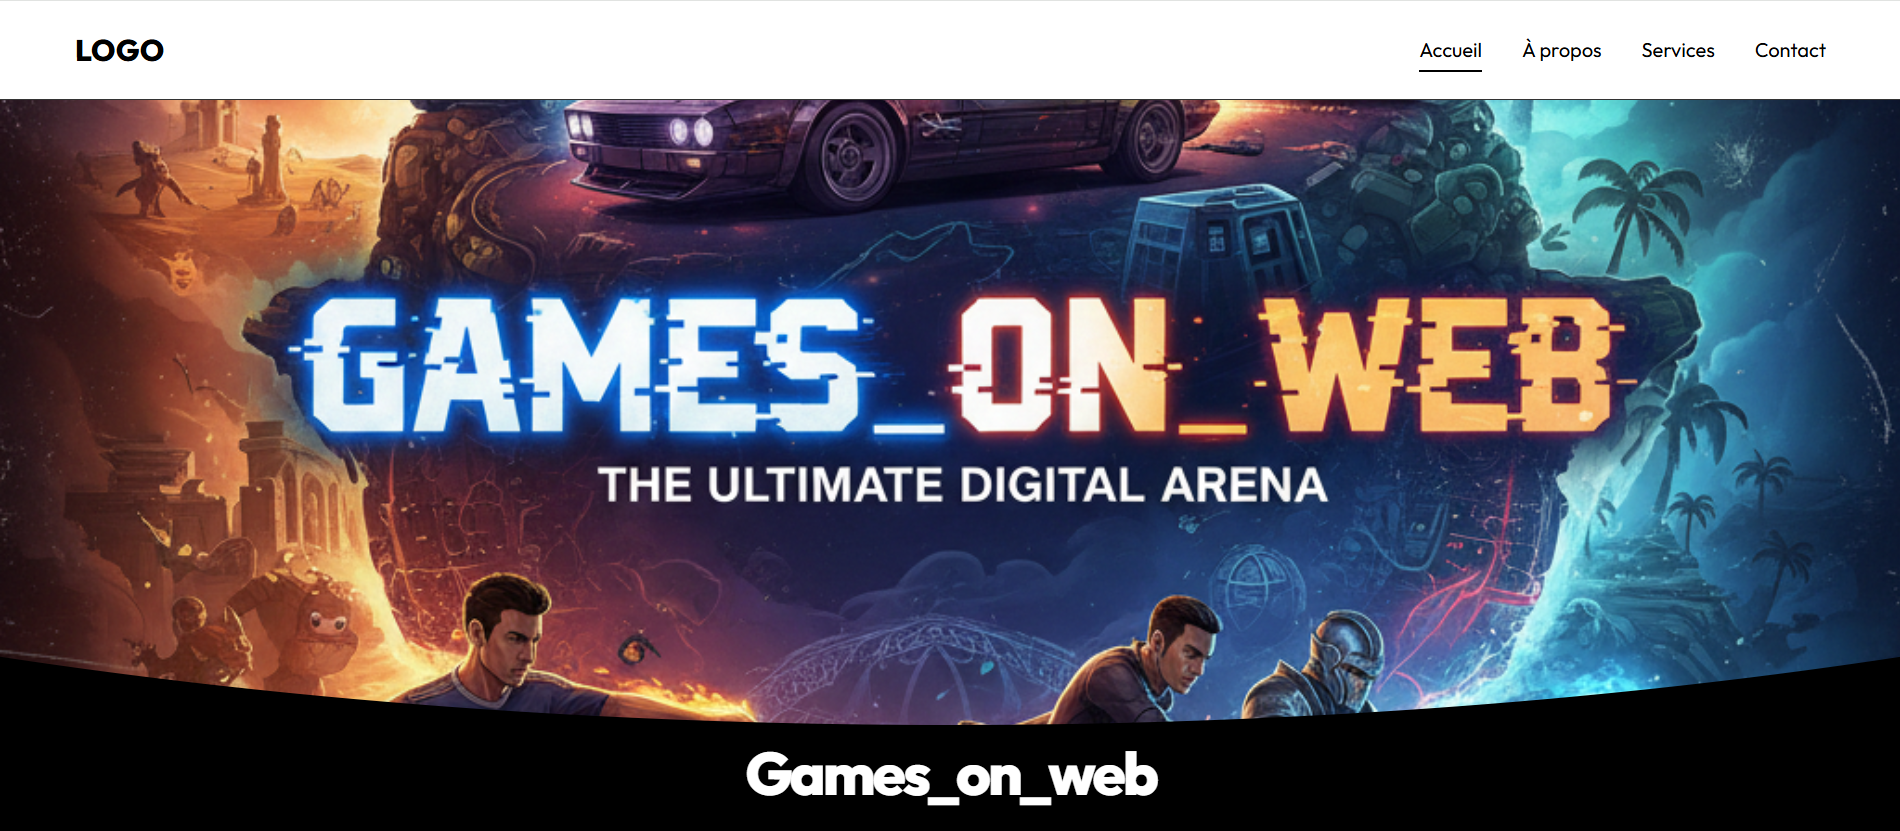
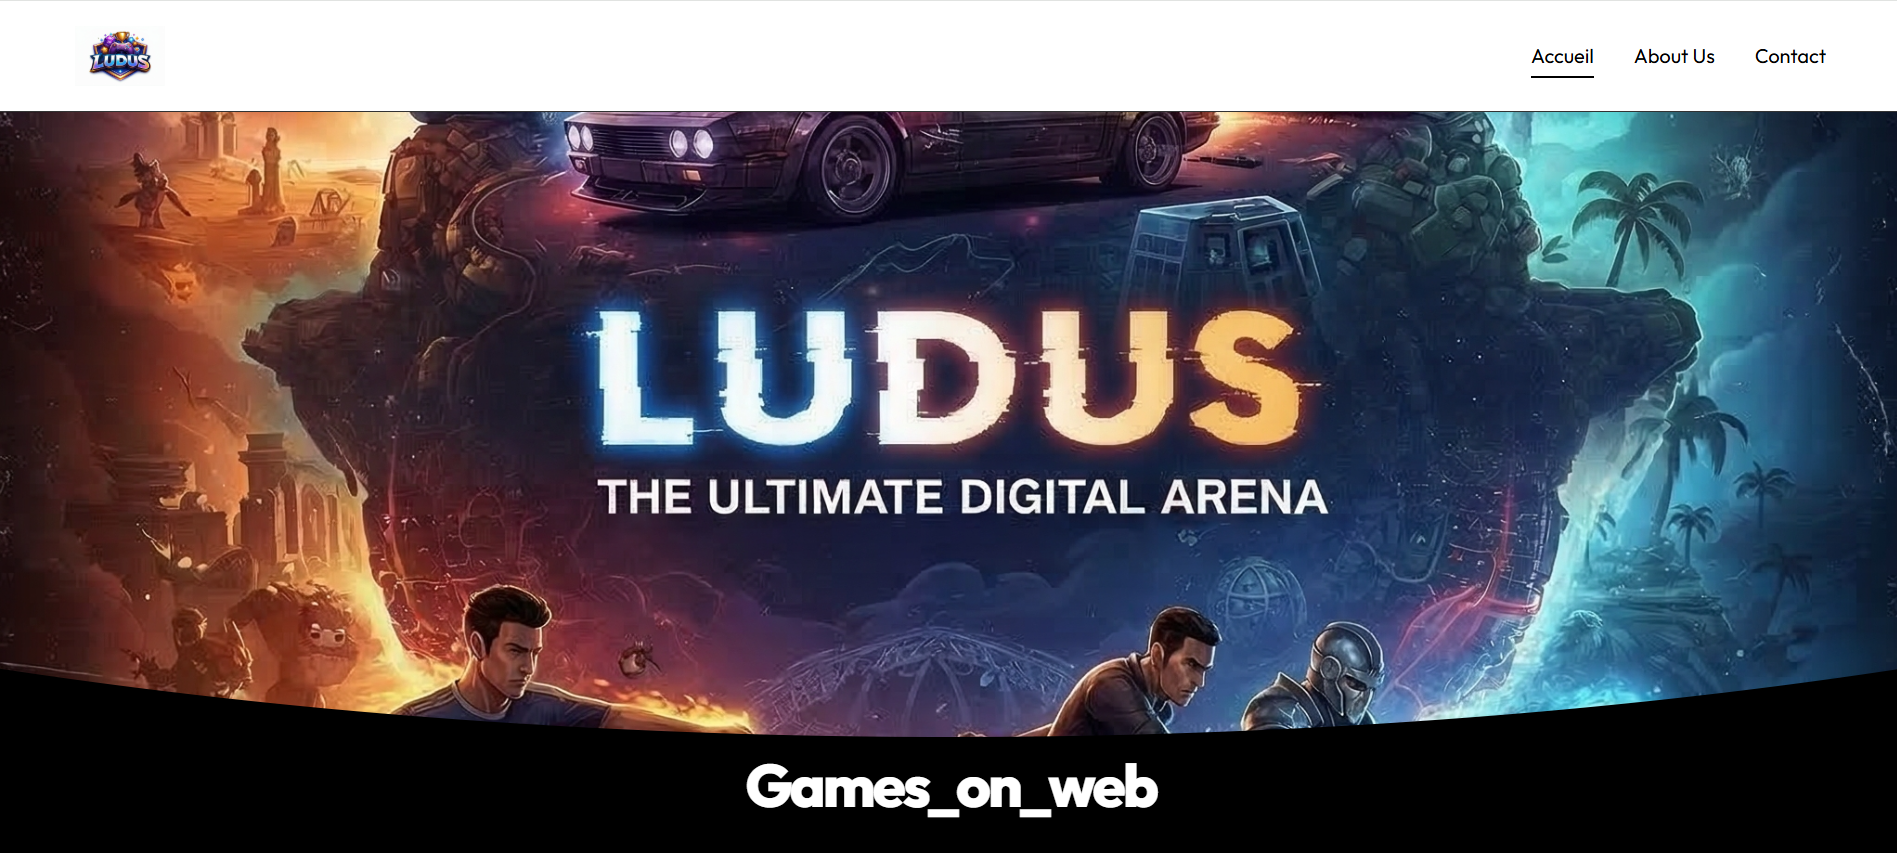
upadate: name project

diff --git a/projet_en.html b/projet_en.html
@@ -49,13 +49,13 @@
                     <div class="card-links">
                         <a href="https://github.com/khalilouro/games_on_web" target="_blank" title="Source Code"><i
                                 class='bx bxl-github'></i></a>
-                        <a href="https://games-on-web-eta.vercel.app/" target="_blank" title="Live Demo"><i
+                        <a href="https://ludusgame.vercel.app/" target="_blank" title="Live Demo"><i
                                 class='bx bx-link-external'></i></a>
                     </div>
                 </div>
             </div>
             <div class="card-content">
-                <h2 class="project-name">Games On Web</h2>
+                <h2 class="project-name">Ludus</h2>
                 <p class="project-desc">An interactive online gaming platform with user management and real-time scores.</p>
                 <div class="tech-stack">
                     <i class="devicon-nodejs-plain colored" title="Node.js"></i>

diff --git a/projet.html b/projet.html
@@ -49,13 +49,13 @@
                     <div class="card-links">
                         <a href="https://github.com/khalilouro/games_on_web" target="_blank" title="Code Source"><i
                                 class='bx bxl-github'></i></a>
-                        <a href="https://games-on-web-eta.vercel.app/" target="_blank" title="Démo Live"><i
+                        <a href="https://ludusgame.vercel.app/" target="_blank" title="Démo Live"><i
                                 class='bx bx-link-external'></i></a>
                     </div>
                 </div>
             </div>
             <div class="card-content">
-                <h2 class="project-name">Games On Web</h2>
+                <h2 class="project-name">Ludus</h2>
                 <p class="project-desc">Une plateforme de jeux en ligne interactive avec gestion d'utilisateurs et
                     scores en temps réel.</p>
                 <div class="tech-stack">

diff --git a/mobile.html b/mobile.html
@@ -312,9 +312,9 @@
             <div class="projects-box">
                 <img src="games_on_web.png" alt="Games on Web">
                 <div class="projects-layer">
-                    <h4>games_on_web</h4>
+                    <h4>Ludus</h4>
                     <p>Plateforme de jeux avec Node.js & MongoDB.</p>
-                    <a href="https://games-on-web-eta.vercel.app/"><i class='bx bx-link-external'></i></a>
+                    <a href="https://ludusgame.vercel.app/"><i class='bx bx-link-external'></i></a>
                 </div>
             </div>
             <div class="btn-box">

diff --git a/mobile_en.html b/mobile_en.html
@@ -300,9 +300,9 @@
             <div class="projects-box">
                 <img src="games_on_web.png" alt="Games on Web">
                 <div class="projects-layer">
-                    <h4>games_on_web</h4>
+                    <h4>Ludus</h4>
                     <p>Gaming platform with Node.js & MongoDB.</p>
-                    <a href="https://games-on-web-eta.vercel.app/"><i class='bx bx-link-external'></i></a>
+                    <a href="https://ludusgame.vercel.app/"><i class='bx bx-link-external'></i></a>
                 </div>
             </div>
             <div class="btn-box">

diff --git a/index.html b/index.html
@@ -331,8 +331,8 @@
 
                         <div class="info-box">
                             <div class="info-title">
-                                <h3>games_on_web</h3>
-                                <a href="https://games-on-web-eta.vercel.app/">Aperçu en direct<i
+                                <h3>Ludus</h3>
+                                <a href="https://ludusgame.vercel.app/">Aperçu en direct<i
                                         class='bx bx-link-external'></i></a>
                             </div>
                             <p>Technologies utilisées :</p>

diff --git a/index_en.html b/index_en.html
@@ -287,8 +287,8 @@
 
                         <div class="info-box">
                             <div class="info-title">
-                                <h3>games_on_web</h3>
-                                <a href="https://games-on-web-eta.vercel.app/">Live Preview<i
+                                <h3>Ludus</h3>
+                                <a href="https://ludusgame.vercel.app/">Live Preview<i
                                         class='bx bx-link-external'></i></a>
                             </div>
                             <p>Tech Used:</p>
